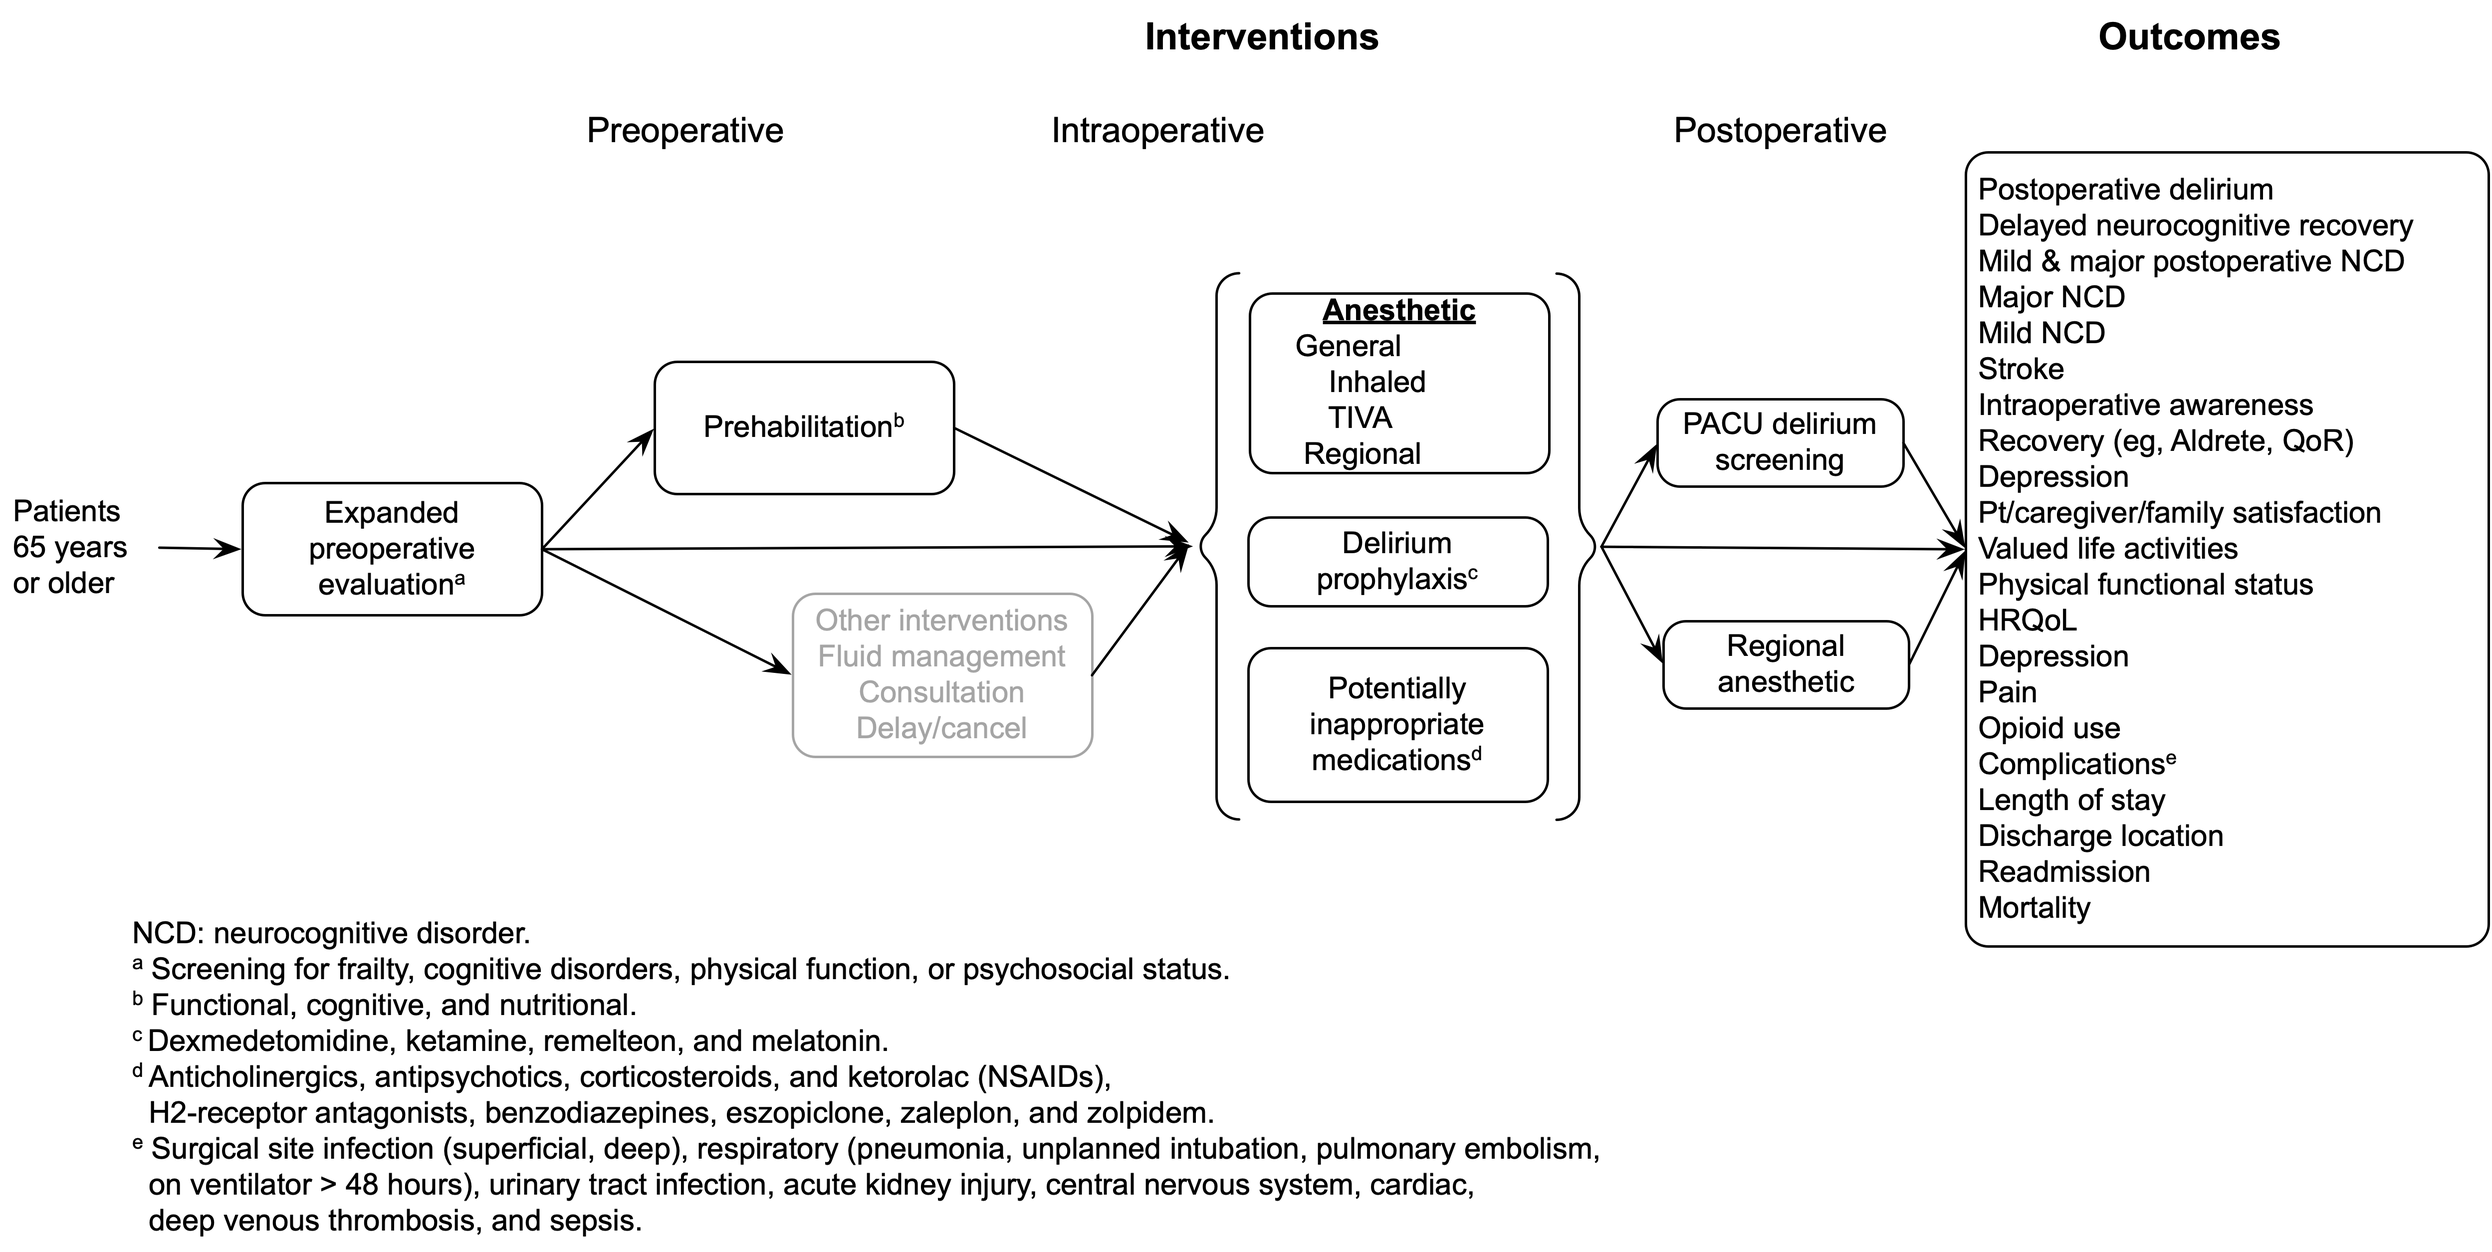
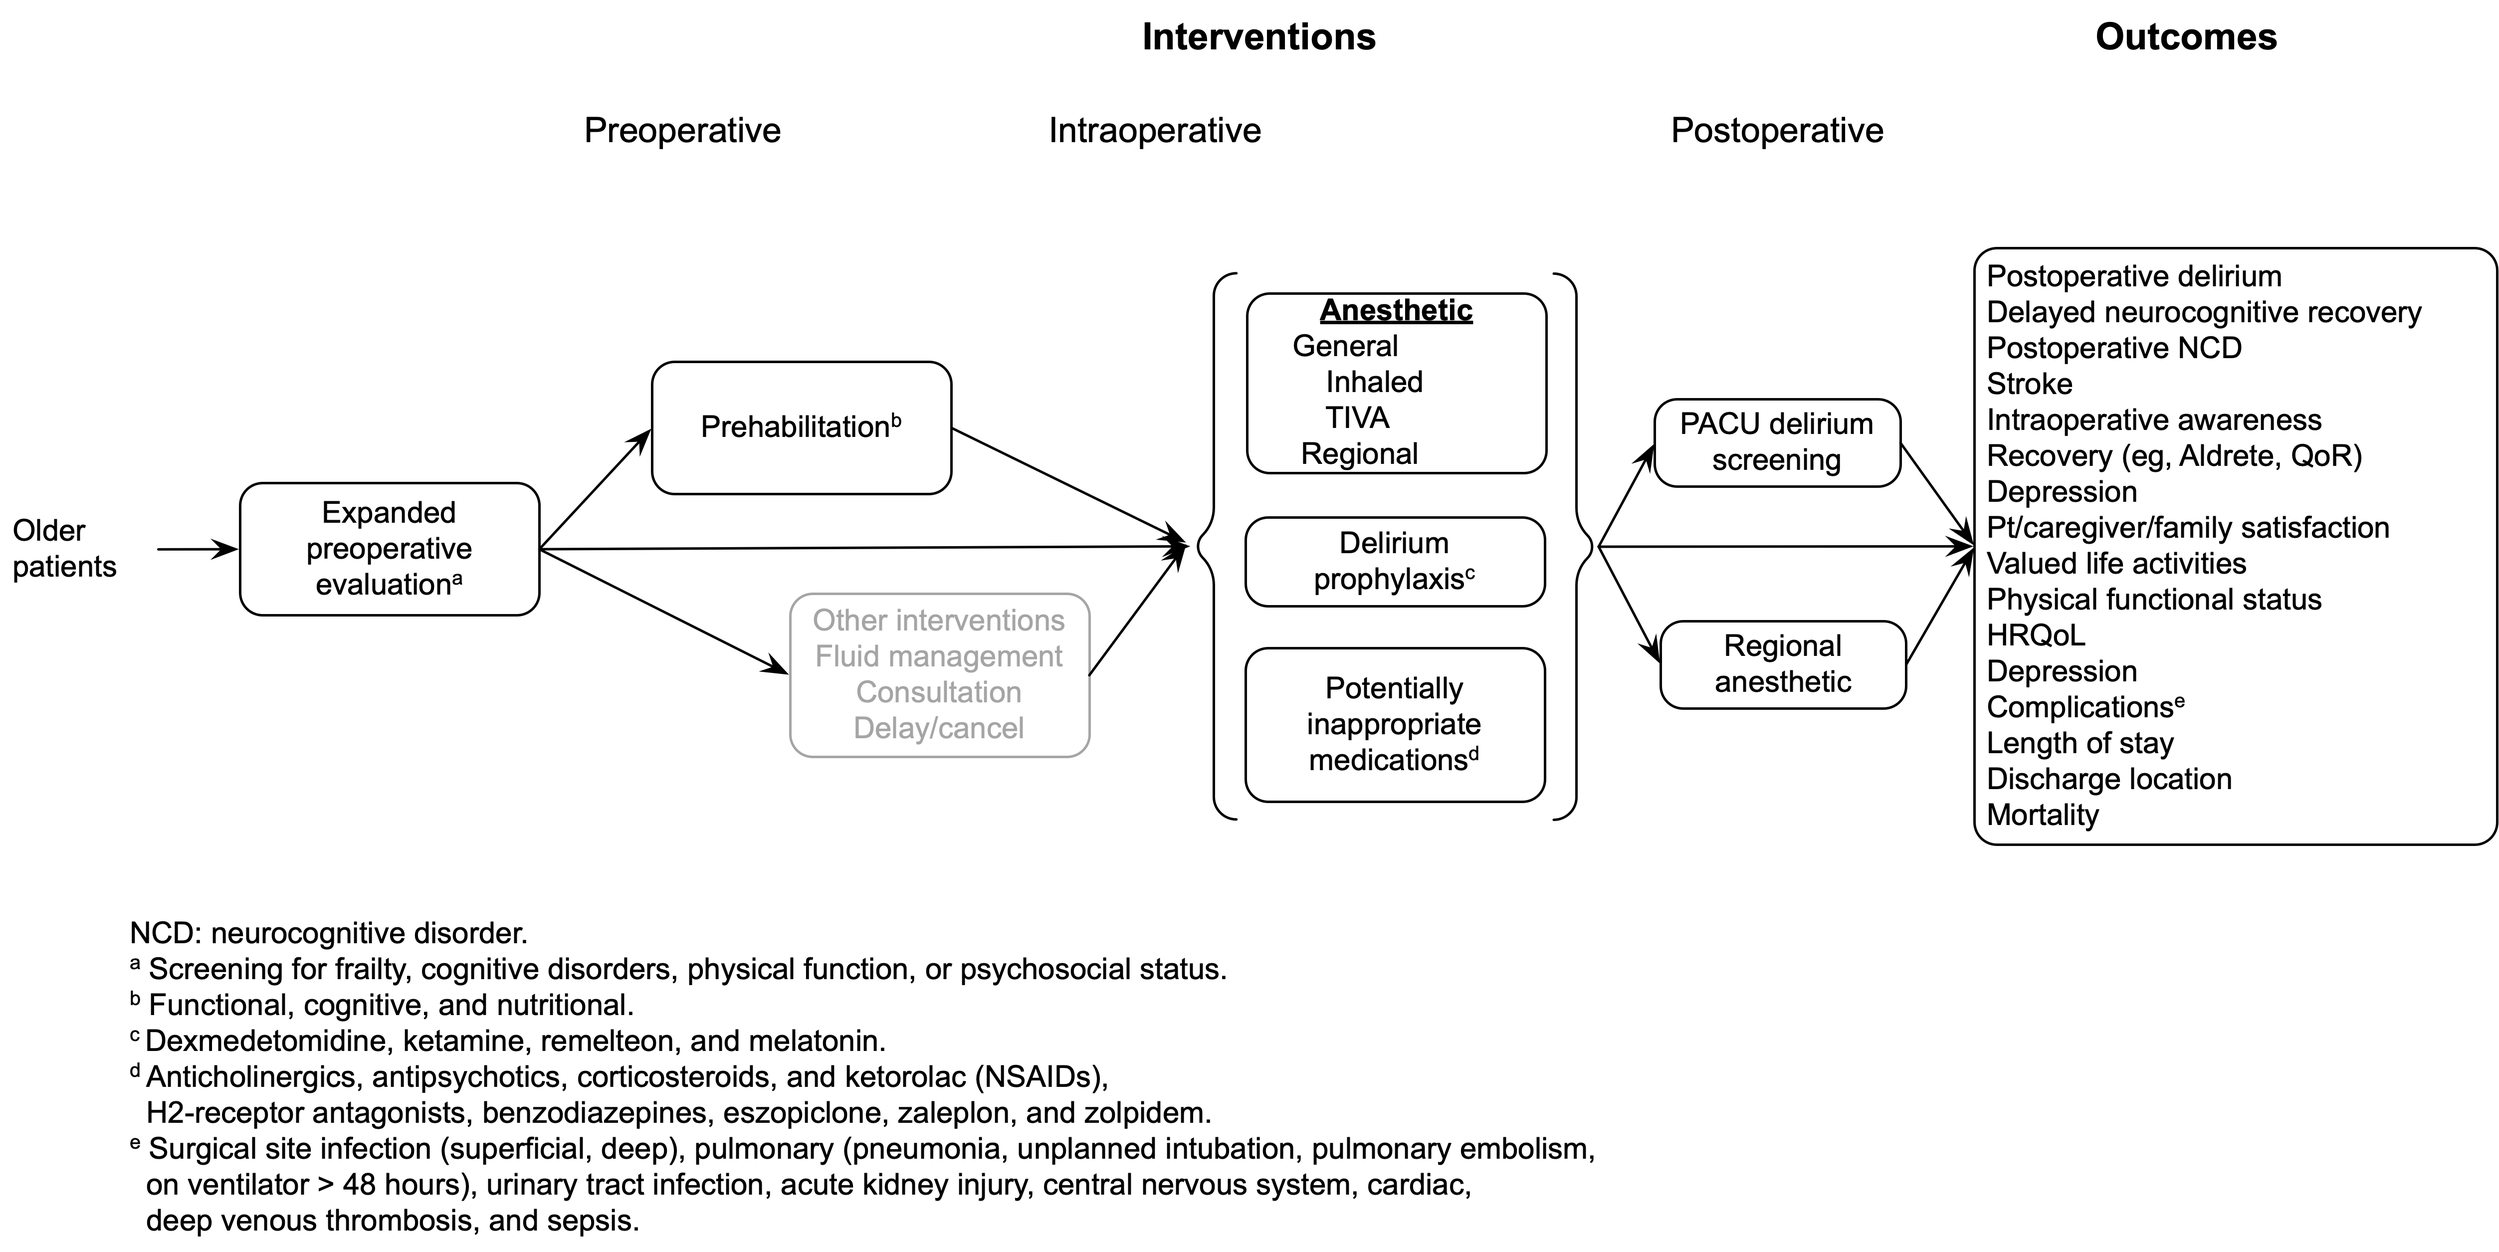
update protocol

diff --git a/docs/protocol.html b/docs/protocol.html
@@ -190,7 +190,6 @@ ul.task-list li input[type="checkbox"] {
   <li><a href="#risk-of-bias-of-individual-studies" id="toc-risk-of-bias-of-individual-studies" class="nav-link" data-scroll-target="#risk-of-bias-of-individual-studies">Risk of Bias of Individual Studies</a></li>
   <li><a href="#evidence-synthesis" id="toc-evidence-synthesis" class="nav-link" data-scroll-target="#evidence-synthesis">Evidence Synthesis</a></li>
   <li><a href="#grading-the-strength-of-evidence" id="toc-grading-the-strength-of-evidence" class="nav-link" data-scroll-target="#grading-the-strength-of-evidence">Grading the Strength of Evidence</a></li>
-  <li><a href="#registration" id="toc-registration" class="nav-link" data-scroll-target="#registration">Registration</a></li>
   </ul></li>
   <li><a href="#references-update" id="toc-references-update" class="nav-link" data-scroll-target="#references-update">References <em>(update)</em></a></li>
   </ul></li>
@@ -230,7 +229,7 @@ ul.task-list li input[type="checkbox"] {
 <section id="systematic-review-questions" class="level2">
 <h2 class="anchored" data-anchor-id="systematic-review-questions">Systematic Review Questions</h2>
 <ol type="1">
-<li><p>Among older patients anticipating surgery and anesthesia, does expanded preoperative evaluation (e.g., for frailty, cognitive impairment, functional status, or psychosocial issues) lead to improved postoperative outcomes?</p></li>
+<li><p>Among older patients anticipating surgery and anesthesia, does expanded preoperative evaluation (eg, for frailty, cognitive impairment, functional status, or psychosocial issues) lead to improved postoperative outcomes?</p></li>
 <li><p>Among older patients undergoing surgery, does regional anesthesia as the primary anesthetic technique improve postoperative outcomes compared with general anesthesia?</p></li>
 <li><p>Among older patients undergoing surgery with general anesthesia, does the use of intravenous agents for maintenance of anesthesia improve postoperative outcomes compared with inhaled agents?</p></li>
 <li><p>Among older patients undergoing surgery and anesthesia, do commonly used potentially inappropriate medications administered during the perioperative period increase the risk of postoperative delirium or other adverse outcomes?</p></li>
@@ -334,21 +333,12 @@ ul.task-list li input[type="checkbox"] {
 <li><p>Avoidance of potentially inappropriate medications</p></li>
 <li><p>No drugs to prevent delirium</p></li>
 </ul>
-</section>
-<section id="postoperative-1" class="level4">
-<h4 class="anchored" data-anchor-id="postoperative-1">Postoperative</h4>
-<ul>
-<li><p>No postoperative regional anesthetics for lower limb pain (continuous epidural, lower limb nerve block with catheter)</p></li>
-<li><p>No PACU screening for delirium</p></li>
-</ul>
-<blockquote class="blockquote">
-<p>Table: Interventions and corresponding comparators.</p>
-</blockquote>
 <table class="table">
+<caption>Interventions and corresponding comparators.</caption>
 <colgroup>
-<col style="width: 8%">
-<col style="width: 52%">
-<col style="width: 39%">
+<col style="width: 12%">
+<col style="width: 63%">
+<col style="width: 23%">
 </colgroup>
 <thead>
 <tr class="header">
@@ -365,22 +355,16 @@ ul.task-list li input[type="checkbox"] {
 <td style="text-align: left;">Standard preoperative evaluation</td>
 </tr>
 <tr class="even">
-<td></td>
-<td style="text-align: left;">Prehabilitation<br>
-(functional, cognitive, nutritional)</td>
-<td style="text-align: left;">No prehabilitation</td>
-</tr>
-<tr class="odd">
 <td><em>Intraoperative</em></td>
 <td style="text-align: left;">Regional anesthesia as the primary anesthetic</td>
 <td style="text-align: left;">General anesthesia</td>
 </tr>
-<tr class="even">
+<tr class="odd">
 <td></td>
 <td style="text-align: left;">Total intravenous anesthesia</td>
 <td style="text-align: left;">Volatile anesthetics</td>
 </tr>
-<tr class="odd">
+<tr class="even">
 <td></td>
 <td style="text-align: left;">Anticholinergics<br>
 Antipsychotics<br>
@@ -390,20 +374,10 @@ Benzodiazepines<br>
 Nonbenzodiazepine benzodiazepine receptor agonist hypnotics: eszopiclone, zaleplon, zolpidem</td>
 <td style="text-align: left;">None</td>
 </tr>
-<tr class="even">
+<tr class="odd">
 <td></td>
 <td style="text-align: left;">Drugs to prevent delirium (dexmedetomidine, ketamine, ramelteon, or melatonin)</td>
 <td style="text-align: left;">None</td>
-</tr>
-<tr class="odd">
-<td><em>Postoperative</em></td>
-<td style="text-align: left;">Postoperative regional anesthetics for lower limb pain (continuous epidural, lower extremity nerve block with catheter)</td>
-<td style="text-align: left;">Opioids, multimodal analgesia not including nerve block, or conventional pain management</td>
-</tr>
-<tr class="even">
-<td></td>
-<td style="text-align: left;">Screening for postoperative delirium</td>
-<td style="text-align: left;">No screening for postoperative delirium</td>
 </tr>
 </tbody>
 </table>
@@ -414,22 +388,17 @@ Nonbenzodiazepine benzodiazepine receptor agonist hypnotics: eszopiclone, zalepl
 <ul>
 <li><p>Postoperative delirium</p></li>
 <li><p>Delayed neurocognitive recovery (&lt; 30 days after procedure)</p></li>
-<li><p>Postoperative neurocognitive disorder (mild, major)</p></li>
-<li><p>Major neurocognitive disorder (dementia)</p></li>
-<li><p>Mild neurocognitive disorder (mild cognitive impairment)</p></li>
+<li><p>Postoperative neurocognitive disorder</p></li>
 <li><p>Stroke</p></li>
-<li><p>Intraoperative awareness</p></li>
-<li><p>Recovery (e.g., Aldrete and Quality of Recovery scores)</p></li>
+<li><p>Recovery (eg, Aldrete and Quality of Recovery scores)</p></li>
 <li><p>Depression</p></li>
 <li><p>Patient/caregiver/family satisfaction</p></li>
 <li><p>Valued life activities</p></li>
 <li><p>Physical functional status (independence/disability)</p></li>
 <li><p>Health-related quality of life</p></li>
-<li><p>Pain</p></li>
-<li><p>Opioid use</p></li>
 <li><p>Complications</p>
 <ul>
-<li><p>Surgical site infection (superficial, deep)</p></li>
+<li><p>Surgical site infection</p></li>
 <li><p>Respiratory (pneumonia, unplanned intubation, pulmonary embolism, on ventilator &gt; 48 hours)</p></li>
 <li><p>Urinary tract infection</p></li>
 <li><p>Acute kidney injury</p></li>
@@ -444,7 +413,6 @@ Nonbenzodiazepine benzodiazepine receptor agonist hypnotics: eszopiclone, zalepl
 <li><p>Home</p></li>
 <li><p>Rehab/skilled/short-term, long-term care, or other than primary residence</p></li>
 </ul></li>
-<li><p>Readmission</p></li>
 <li><p>Mortality</p></li>
 </ul>
 </section>
@@ -488,10 +456,10 @@ Nonbenzodiazepine benzodiazepine receptor agonist hypnotics: eszopiclone, zalepl
 <ul>
 <li><p>Randomized clinical trials</p></li>
 <li><p>Non-randomized trials</p></li>
-<li><p>Quasi-randomized designs (e.g., before-after studies, interrupted time series)</p></li>
+<li><p>Quasi-randomized designs (eg, before-after studies, interrupted time series)</p></li>
 <li><p>Cohort studies (prospective, retrospective)</p></li>
 <li><p>Case-control studies</p></li>
-<li><p>Other observational studies&nbsp;(e.g., diagnostic accuracy)</p></li>
+<li><p>Other observational studies&nbsp;(eg, diagnostic accuracy)</p></li>
 </ul></li>
 <li><p>Exclude</p>
 <ul>
@@ -512,42 +480,49 @@ Nonbenzodiazepine benzodiazepine receptor agonist hypnotics: eszopiclone, zalepl
 <section id="data-abstraction-and-management" class="level3">
 <h3 class="anchored" data-anchor-id="data-abstraction-and-management">Data Abstraction and Management</h3>
 <p>Title/abstract and full-text screening together with data extraction will be performed on the DistillerSR platform.<sup>7</sup> All screening will be conducted in duplicate, with disagreements resolved by consensus or a third reviewer as needed.</p>
-<p>Anticipated data extraction includes study characteristics (e.g., design, dates, setting, centers, country, funding, registration, subgroups, surgery, and anesthetic), study arms (e.g., intervention, participant characteristics, intervention, and outcomes reported), and outcome detail according to type (e.g., patient-reported or clinical; continuous, dichotomous [includes relative effects], rating scales [Likert, visual analog, numeric]). As required, figures will be digitized. A single reviewer will extract study data followed by verification.<sup>8</sup></p>
+<p>Anticipated data extraction includes study characteristics (eg, design, dates, setting, centers, country, funding, registration, subgroups, surgery, and anesthetic), study arms (eg, intervention, participant characteristics, intervention, and outcomes reported), and outcome detail according to type (eg, patient-reported or clinical; continuous, dichotomous [includes relative effects], rating scales [Likert, visual analog, numeric]). As required, figures will be digitized. A single reviewer will extract study data followed by verification.<sup>8</sup></p>
 </section>
 <section id="risk-of-bias-of-individual-studies" class="level3">
 <h3 class="anchored" data-anchor-id="risk-of-bias-of-individual-studies">Risk of Bias of Individual Studies</h3>
-<p>Risk of bias assessment for randomized trials will be conducted using the Cochrane risk of bias tool. <sup>9</sup> Risk of bias assessment of non-randomized studies of interventions (e.g., observational studies of interventions including cohort, case-control, and quasi-randomized designs) will utilize the Risk Of Bias In Non-randomised Studies of Interventions tool (ROBINS-I).<sup>10</sup> Risk of bias will be assessed independently by two reviewers with discrepancies resolved by discussion, or a third reviewer as needed.</p>
+<p>Risk of bias assessment for randomized trials will be conducted using the Cochrane risk of bias tool. <sup>9</sup> Risk of bias assessment of non-randomized studies of interventions (eg, observational studies of interventions including cohort, case-control, and quasi-randomized designs) will utilize the Risk Of Bias In Non-randomised Studies of Interventions tool (ROBINS-I).<sup>10</sup> Risk of bias will be assessed independently by two reviewers with discrepancies resolved by discussion, or a third reviewer as needed.</p>
 </section>
 <section id="evidence-synthesis" class="level3">
 <h3 class="anchored" data-anchor-id="evidence-synthesis">Evidence Synthesis</h3>
-<p>As appropriate, based on clinical and methodological heterogeneity, study results will be pooled in either pairwise or network meta-analyses in random effects models (given the goal of estimating unconditional effects not relevant only to the pooled studies).<sup>11</sup> Statistical heterogeneity is evaluated using between study variance and <em>I</em><sup>2</sup>.<sup>12</sup> When there is meaningful heterogeneity and the number of studies sufficient (e.g., 10 or more) meta-regression is considered to explain the variability.<sup>13</sup> With 10 or more pooled studies, small study effects and the potential for publication bias will be examined in funnel plots, regression-based tests, adjustment methods, and p-curves.<sup>14,15</sup></p>
+<p>As appropriate, based on clinical and methodological heterogeneity, study results will be pooled in either pairwise or network meta-analyses in random effects models (given the goal of estimating unconditional effects not relevant only to the pooled studies).<sup>11</sup> Statistical heterogeneity is evaluated using between study variance and <em>I</em><sup>2</sup>.<sup>12</sup> When there is meaningful heterogeneity and the number of studies sufficient (eg, 10 or more) meta-regression is considered to explain the variability.<sup>13</sup> With 10 or more pooled studies, small study effects and the potential for publication bias will be examined in funnel plots, regression-based tests, adjustment methods, and p-curves.<sup>14,15</sup></p>
 <p>Relative effects will be pooled as risk ratios for clinical interpretability except when adjusted measures reported as odds are pooled. Continuous measures are pooled as mean differences or standardized mean differences when studies use differing scales. When practicably, standardized mean differences will be re-expressed on the most meaningful scale.<sup>16</sup> R (R Foundation for Statistical Computing, Vienna, Austria) will be used for analyses and data made publicly available when the guideline is completed.</p>
 </section>
 <section id="grading-the-strength-of-evidence" class="level3">
 <h3 class="anchored" data-anchor-id="grading-the-strength-of-evidence">Grading the Strength of Evidence</h3>
-<p>The strength (certainty) of evidence for important outcomes will be appraised using either GRADE<sup>17</sup> and ACCF/AHA<sup>18</sup> frameworks.</p>
-</section>
-<section id="registration" class="level3">
-<h3 class="anchored" data-anchor-id="registration">Registration</h3>
-<p>TBD</p>
-<p>Table. Protocol Development</p>
+<p>The strength (certainty) of evidence for important outcomes will be appraised using either GRADE<sup>17</sup> and ACC/AHA<sup>18</sup> frameworks.</p>
+<div class="callout callout-style-default callout-note callout-titled">
+<div class="callout-header d-flex align-content-center" data-bs-toggle="collapse" data-bs-target=".callout-1-contents" aria-controls="callout-1" aria-expanded="false" aria-label="Toggle callout">
+<div class="callout-icon-container">
+<i class="callout-icon"></i>
+</div>
+<div class="callout-title-container flex-fill">
+Modification History
+</div>
+<div class="callout-btn-toggle d-inline-block border-0 py-1 ps-1 pe-0 float-end"><i class="callout-toggle"></i></div>
+</div>
+<div id="callout-1" class="callout-1-contents callout-collapse collapse">
+<div class="callout-body-container callout-body">
 <table class="table">
 <colgroup>
-<col style="width: 6%">
 <col style="width: 8%">
-<col style="width: 84%">
+<col style="width: 10%">
+<col style="width: 79%">
 </colgroup>
 <thead>
 <tr class="header">
-<th style="text-align: left;"><strong>Date</strong></th>
-<th style="text-align: left;"><strong>Section</strong></th>
-<th style="text-align: left;"><strong>Modification</strong></th>
+<th style="text-align: left;">Date</th>
+<th style="text-align: left;">Section</th>
+<th style="text-align: left;">Modification</th>
 </tr>
 </thead>
 <tbody>
 <tr class="odd">
 <td style="text-align: left;">July 2021</td>
-<td style="text-align: left;"></td>
+<td style="text-align: left;">None</td>
 <td style="text-align: left;">First draft</td>
 </tr>
 <tr class="even">
@@ -555,8 +530,31 @@ Nonbenzodiazepine benzodiazepine receptor agonist hypnotics: eszopiclone, zalepl
 <td style="text-align: left;">Key questions</td>
 <td style="text-align: left;">Key questions removed: EEG monitoring and cognitive function; sedation titration with EEG monitoring; and maintaining intraoperative high blood pressure</td>
 </tr>
+<tr class="odd">
+<td style="text-align: left;">February 2023</td>
+<td style="text-align: left;">Key questions</td>
+<td style="text-align: left;">KQ8 combined with KQ1; KQ2 (prehabilitation) and KQ7 (pain) removed</td>
+</tr>
+<tr class="even">
+<td style="text-align: left;">September 2023</td>
+<td style="text-align: left;">Key questions</td>
+<td style="text-align: left;">Reworded to “older patients”</td>
+</tr>
+<tr class="odd">
+<td style="text-align: left;"></td>
+<td style="text-align: left;">PICOTS</td>
+<td style="text-align: left;">Updated to be consistent with deleted and combined key questions</td>
+</tr>
+<tr class="even">
+<td style="text-align: left;"></td>
+<td style="text-align: left;">Analytic framework</td>
+<td style="text-align: left;">Updated to be consistent with deleted and combined key questions</td>
+</tr>
 </tbody>
 </table>
+</div>
+</div>
+</div>
 </section>
 </section>
 <section id="references-update" class="level2">
